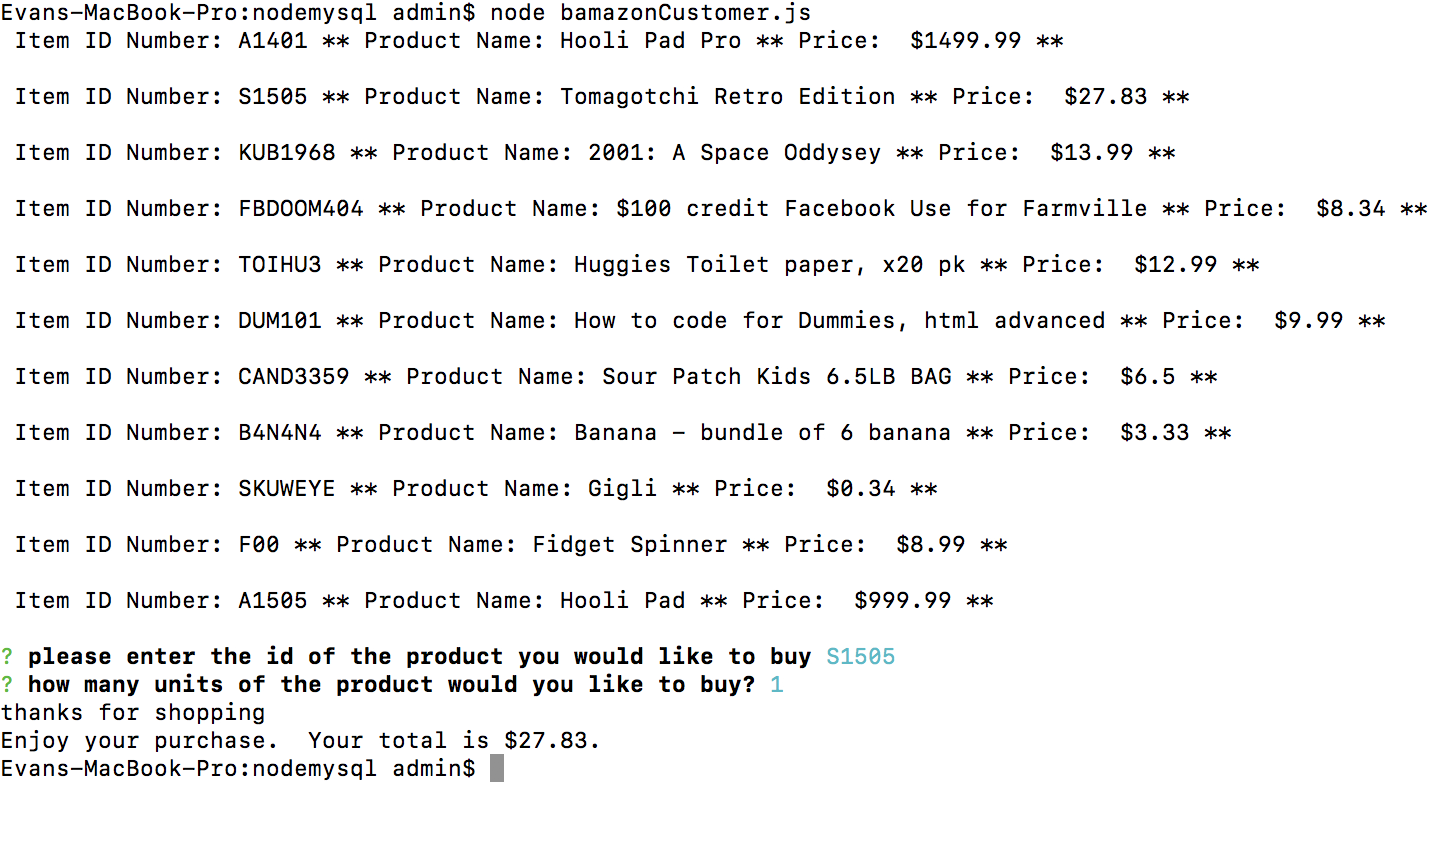
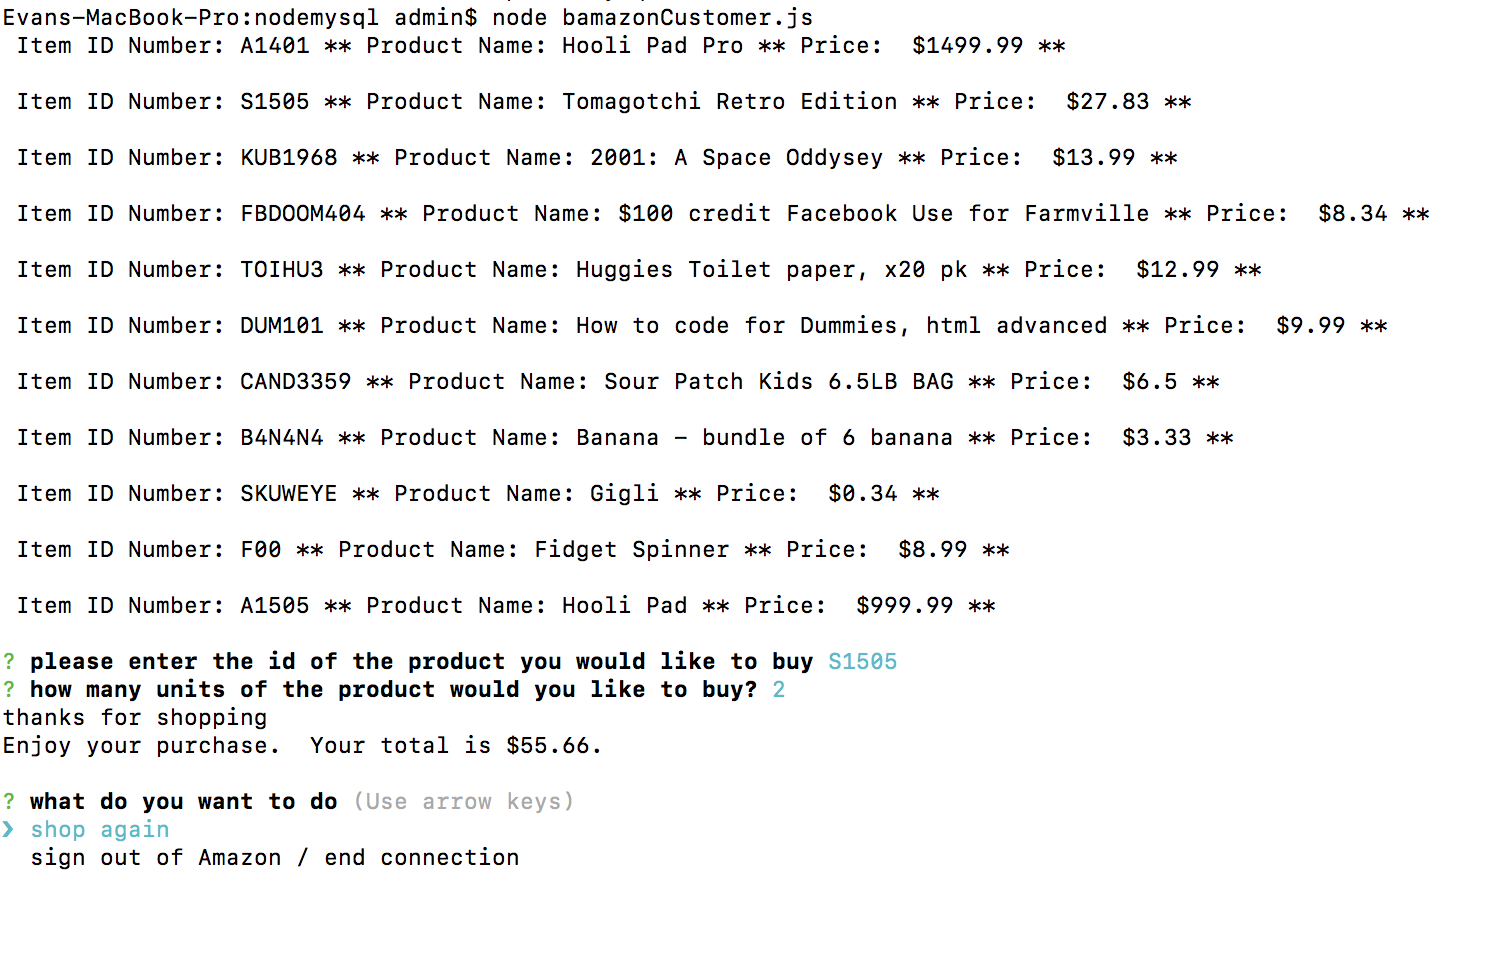
added reiterating printItems and substituted screenshots for others

diff --git a/bamazonManager.js b/bamazonManager.js
@@ -99,6 +99,13 @@ function lowInventory() {
 }
 
 function addInventory() {
+    validateNum = function (input) {
+        if (isNaN(parseFloat(input)) ||
+            input > 100)
+            return "Input a valid number";
+        return true;
+    }
+
     inquirer.prompt([{
             type: "input",
             name: "id",
@@ -107,7 +114,8 @@ function addInventory() {
         {
             type: "input",
             name: "quantityadded",
-            message: "how many units of the product would you like to add?"
+            message: "how many units of the product would you like to add?",
+            validate: validateNum
         }
     ]).then(function (input) {
         var inventory = "SELECT * FROM products WHERE ?";
@@ -138,7 +146,7 @@ function addInventory() {
                     console.log("");
                     console.log("The product: " + data[0].product_name + " now has " + data[0].stock_quantity + " units in inventory.");
                     console.log("");
-                    managerOptions();   
+                    managerOptions();
                 })
             })
         });
@@ -179,7 +187,7 @@ function addProduct() {
         )
         console.log("you've successfully added: " + input.productname + " to inventory");
         console.log("");
-        managerOptions(); 
+        managerOptions();
 
     })
 }

diff --git a/bamazonCustomer.js b/bamazonCustomer.js
@@ -11,6 +11,28 @@ var connection = mysql.createConnection({
   database: "bamazon"
 });
 
+function reinitiate() {
+  inquirer.prompt([{
+    type: "list",
+    name: "selection",
+    message: "what do you want to do",
+    choices: ["shop again",
+      "sign out of Amazon / end connection",
+    ]
+  }, ]).then(function (input) {
+    switch (input.selection) {
+      case "shop again":
+        console.log("");
+        printItems();
+        break;
+      case "sign out of Amazon / end connection":
+        console.log("");
+        connection.end();
+        break;
+    }
+  })
+}
+
 connection.connect(function (err) {
   if (err) throw err;
   printItems();
@@ -83,8 +105,8 @@ function createOrder() {
             }
           ], function (err, data) {
             if (err) throw err;
-            console.log("Enjoy your purchase.  Your total is $" + (itemInfo.price * quantity).toFixed(2) + ".");
-            connection.end();
+            console.log("Enjoy your purchase.  Your total is $" + (itemInfo.price * quantity).toFixed(2) + ".\n");
+            reinitiate();
           })
 
         } else {
@@ -101,7 +123,5 @@ function createOrder() {
         }
       };
     });
-
-    // console.log(query);
   });
 }
